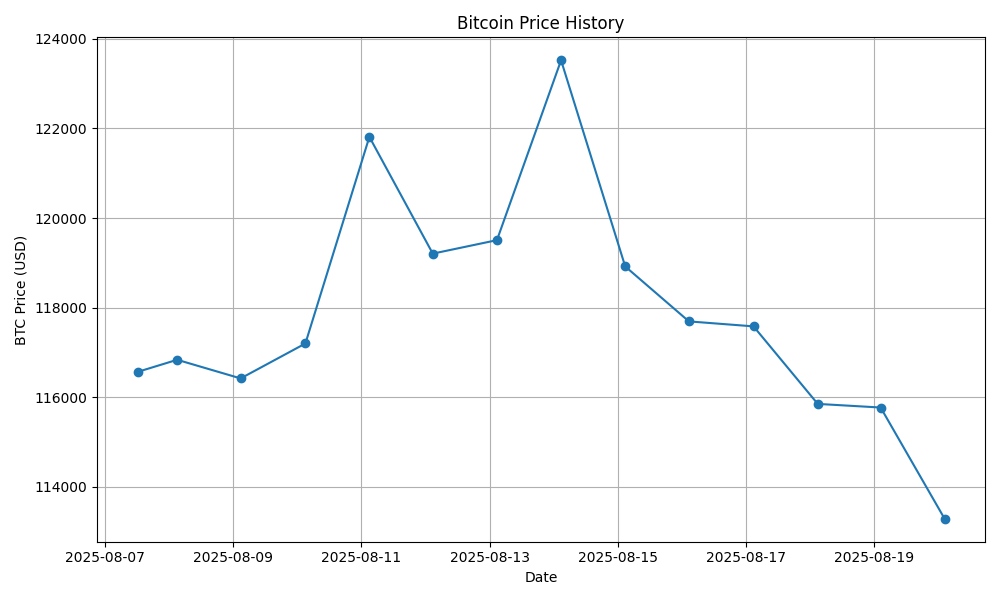
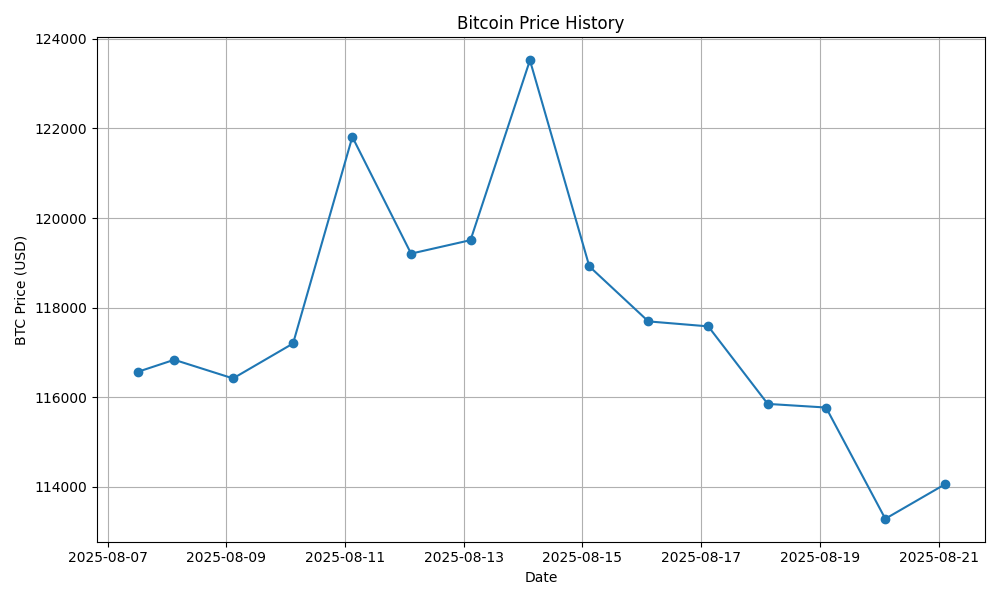
Update: BTC price, chart & README for 2025-08-21

diff --git a/README.md b/README.md
@@ -4,6 +4,6 @@ This project automatically fetches and charts the daily USD price of Bitcoin.
 
 ## Latest Stats
 
-## Latest price (USD): <!--BTC_PRICE-->113286<!--/BTC_PRICE-->
+## Latest price (USD): <!--BTC_PRICE-->114052<!--/BTC_PRICE-->
 
 ![BTC Historical Chart](btc_price_history.png)
